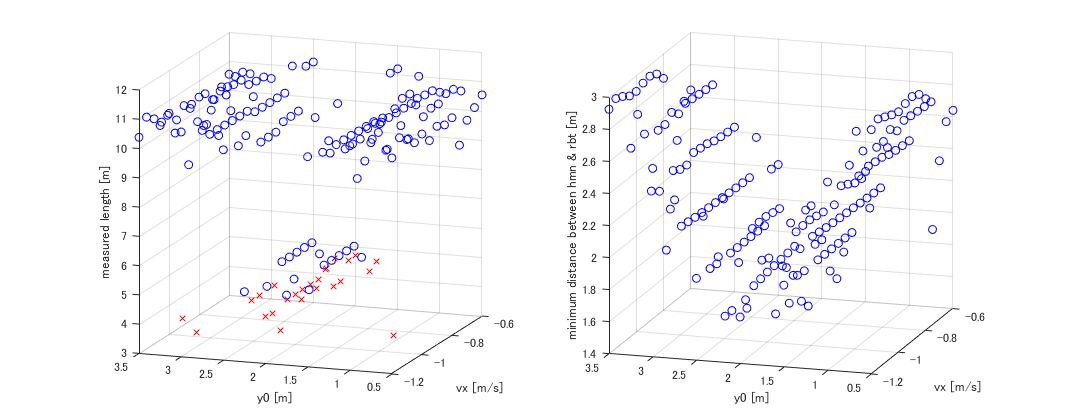
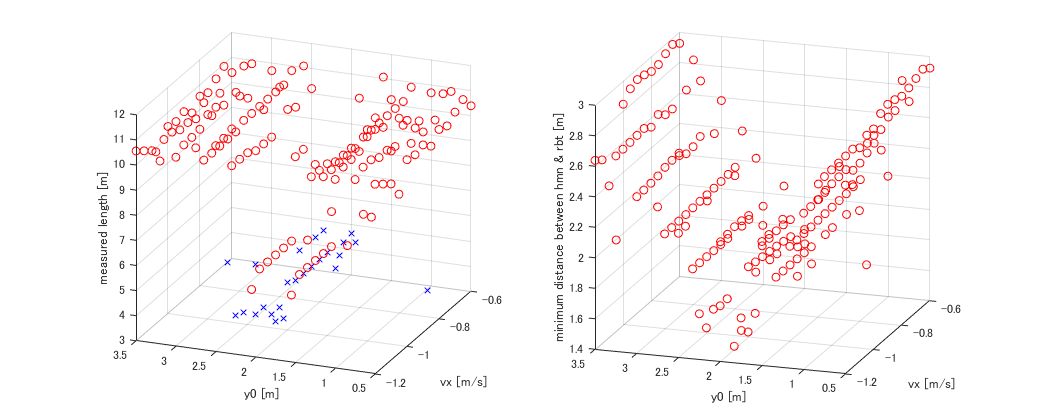
windows

diff --git a/matlab_ws/230208/result_gather.m b/matlab_ws/230208/result_gather.m
@@ -188,13 +188,13 @@ fig=figure(1); clf;
 
 results=readmatrix(motherdir+"\results_grid.csv");
 list_y0=results(:,61);
-list_vx=results(:,60)
+list_vx=results(:,60);
 list_length=results(:,56);
-list_length=reshape(list_length,length(unique(list_y0)),[]);
-list_length=transpose(list_length);
+% list_length=reshape(list_length,length(unique(list_y0)),[])
+% list_length=transpose(list_length)
 list_avoid=results(:,55);
-list_avoid=reshape(list_avoid,length(unique(list_y0)),[]);
-list_avoid=transpose(list_avoid);
+% list_avoid=reshape(list_avoid,length(unique(list_y0)),[]);
+% list_avoid=transpose(list_avoid);
 
 len_ok_idx=find(list_length>=5);
 len_ng_idx=find(list_length<5);
@@ -202,12 +202,14 @@ avoid_ok_idx=find(list_avoid>=1.2);
 avoid_ng_idx=find(list_avoid<1.2);
 
 
-[X,Y]=meshgrid(unique(list_vx),unique(list_y0));
+% [X,Y]=meshgrid(unique(list_vx),unique(list_y0));
 subplot(1,2,1)
 % surf(X,Y,list_length)
-plot3(X(len_ok_idx),Y(len_ok_idx),list_length(len_ok_idx),'ob')
+% plot3(X(len_ok_idx),Y(len_ok_idx),list_length(len_ok_idx),'ob')
+plot3(list_vx(len_ok_idx),list_y0(len_ok_idx),list_length(len_ok_idx),'or')
 hold on
-plot3(X(len_ng_idx),Y(len_ng_idx),list_length(len_ng_idx),'xr')
+plot3(list_vx(len_ng_idx),list_y0(len_ng_idx),list_length(len_ng_idx),'xb')
+% plot3(X(len_ng_idx),Y(len_ng_idx),list_length(len_ng_idx),'xr')
 xlabel("vx [m/s]")
 ylabel("y0 [m]")
 zlabel("measured length [m]")
@@ -215,9 +217,9 @@ zlabel("measured length [m]")
 grid on
 
 subplot(1,2,2)
-plot3(X(avoid_ok_idx),Y(avoid_ok_idx),list_avoid(avoid_ok_idx),'ob')
+plot3(list_vx(avoid_ok_idx),list_y0(avoid_ok_idx),list_avoid(avoid_ok_idx),'or')
 hold on
-plot3(X(avoid_ng_idx),Y(avoid_ng_idx),list_avoid(avoid_ng_idx),'xr')
+plot3(list_vx(avoid_ng_idx),list_y0(avoid_ng_idx),list_avoid(avoid_ng_idx),'xb')
 xlabel("vx [m/s]")
 ylabel("y0 [m]")
 zlabel("minimum distance between hmn & rbt [m]")

diff --git a/matlab_ws/230208/visualizer.m b/matlab_ws/230208/visualizer.m
@@ -2,14 +2,14 @@ addpath 'C:\Users\hayashide\Desktop\kazu_ws\sotsuron_simulator\matlab_ws\tutoria
 addpath 'C:\Users\hayashide\Desktop\kazu_ws\sotsuron_simulator\matlab_ws\230117\final_results';
 % addpath '/home/hayashide/kazu_ws/sotsuron_simulator/matlab_ws/tutorial/cartPole'
 
-matpath="C:\Users\林出和之\Desktop\kazu_ws\sotsuron_simulator\matlab_ws\230208\results\2022h_230211_1900_parameter_study_d455_ymax_4\230211_185130_d_hmny0_1.5_vx0.9\230211_185130_.mat";
+matpath="C:\Users\林出和之\Desktop\kazu_ws\sotsuron_simulator\matlab_ws\230208\results\230219_2022e_1100_parameter_study_d455_ymax_28\230219_114213_d_hmny0_0.5_vx0.9\230219_114213_.mat";
 % matpath="/home/hayashide/kazu_ws/sotsuron_simulator/matlab_ws/1210/results/1210_parastd4Hz/221210_140704_xmax10_ymin-2/221210_140704_test.mat"
 load(matpath)
 
 
-date="230218";
-abst="visualizer_anim_test";
-detail="230211_185130_";
+date="230219";
+abst="visualizer";
+detail="230219_114213_";
 mkdir('results');
 savedir="results\"+date+"_"+abst;
 % savedir="results/"+date+"_"+abst;

diff --git a/matlab_ws/230208/MAIN_func.m b/matlab_ws/230208/MAIN_func.m
@@ -20,7 +20,7 @@ function result=MAIN_func()
                 LRF_mode=0; % 0:d455 1:LRF
                 date="230219";
                 abst="7Fsim";
-                detail="y0_100m";
+                detail="y0_225m";
                 mkdir('results');
                 % savedir="results\"+date+"_"+abst;
                 savedir="results/"+date+"_"+abst;
@@ -102,7 +102,7 @@ function result=MAIN_func()
                 hmn=getHumanParams(env,sns);
 
                 hmn.vx=-0.9;
-                hmn.y0=1;
+                hmn.y0=2;
                 
                 if exp_mode
                     [env.dist_zed_hmn,hmn.y0,hmn.vx]=getHumanVelocity(env);